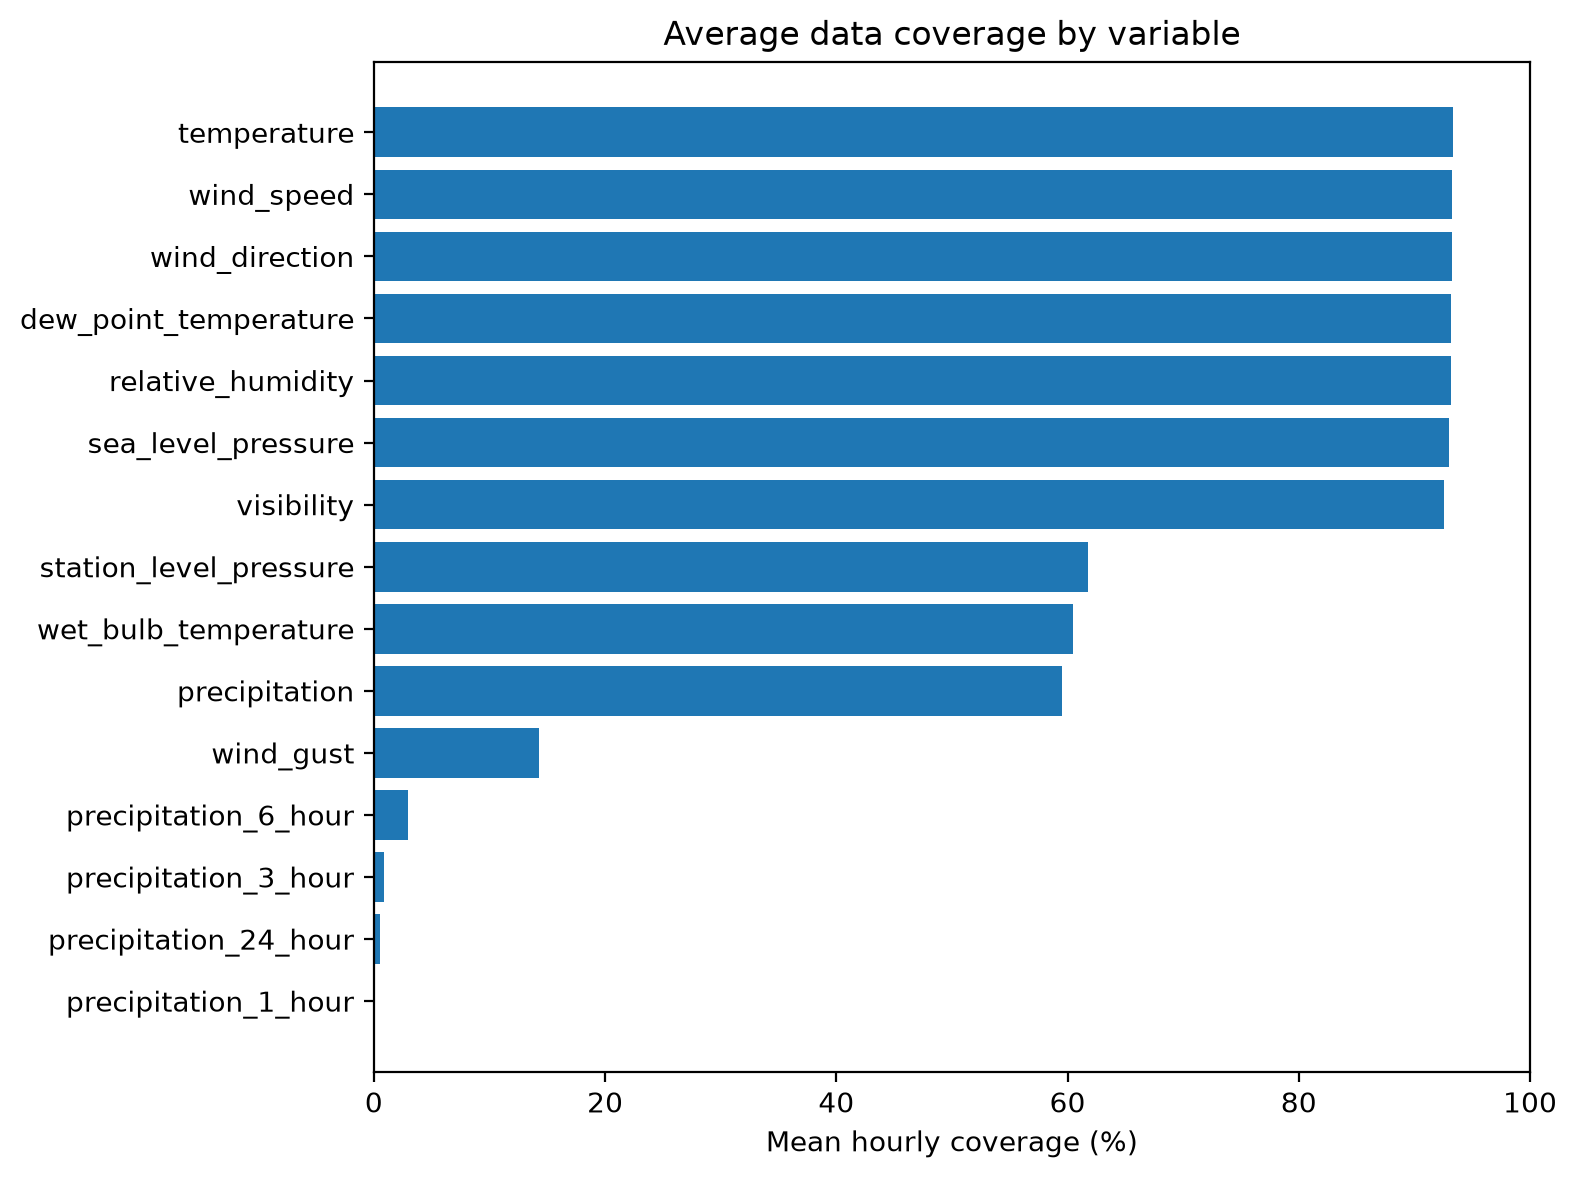
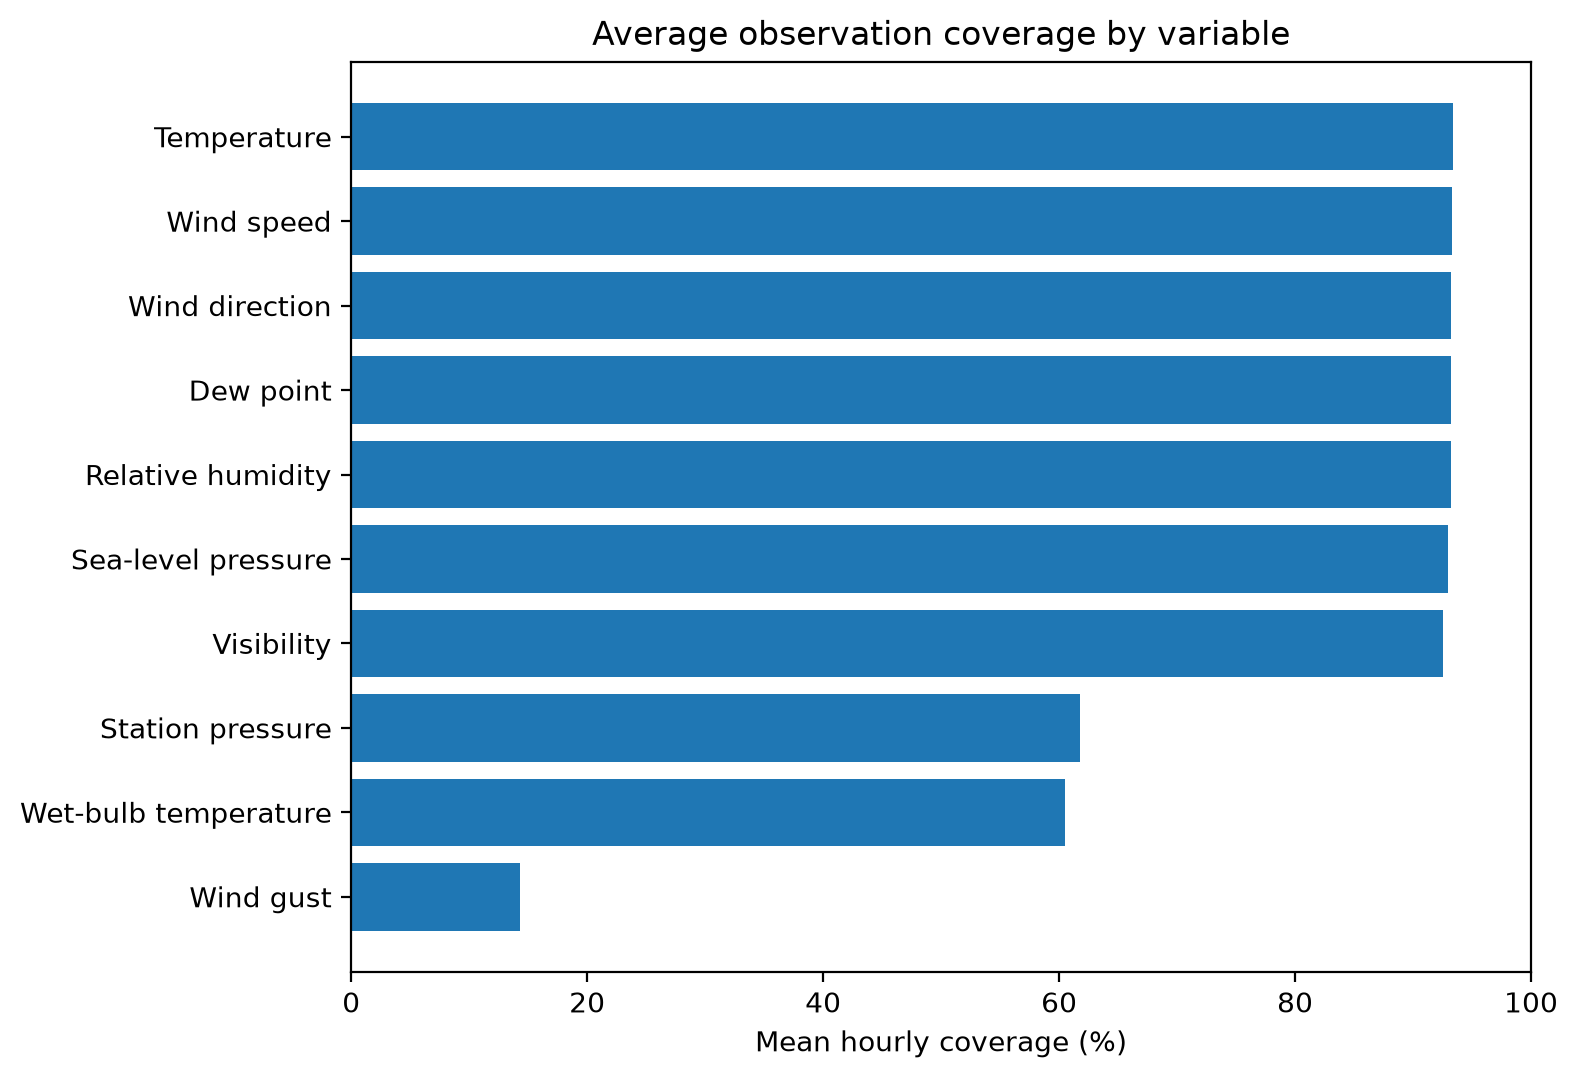
refine weather data visualizations

Changed region(s): [[0.0, 0.0, 0.9632, 0.9796], [0.9632, 0.9184, 0.9943, 0.949]]

diff --git a/src/border_weather/visualizations.py b/src/border_weather/visualizations.py
@@ -7,32 +7,86 @@ import pandas as pd
 FIGURE_DIR = Path("reports/figures")
 FIGURE_DIR.mkdir(parents=True, exist_ok=True)
 
+AUDIT_PATH = Path(
+    "reports/audit/station_variable_year.csv"
+)
+
+HOURLY_PATH = Path(
+    "releases/border-weather-v0.1/hourly.parquet"
+)
+
+STATION_LABELS = {
+    "USW00012959": "McAllen",
+    "USW00012919": "Brownsville",
+    "USI0000KBRO": "Brownsville (parallel source)",
+    "USW00012904": "Harlingen",
+    "USW00012957": "Port Isabel",
+    "USW00003145": "Yuma",
+    "USW00023195": "Yuma (historical source)",
+    "USI0000KLGF": "Laguna AAF",
+    "USI0000KNOZ": "Yuma Aux / Wellton",
+    "USW00003144": "Imperial",
+    "USW00023199": "El Centro",
+}
+
+VARIABLE_LABELS = {
+    "temperature": "Temperature",
+    "dew_point_temperature": "Dew point",
+    "relative_humidity": "Relative humidity",
+    "wind_speed": "Wind speed",
+    "wind_direction": "Wind direction",
+    "wind_gust": "Wind gust",
+    "station_level_pressure": "Station pressure",
+    "sea_level_pressure": "Sea-level pressure",
+    "visibility": "Visibility",
+    "wet_bulb_temperature": "Wet-bulb temperature",
+}
+
 
 def coverage_over_time():
-    audit = pd.read_csv(
-        "reports/audit/station_variable_year.csv"
-    )
+    audit = pd.read_csv(AUDIT_PATH)
 
     df = audit[
         audit["variable"] == "temperature"
     ].copy()
+
+    df["year"] = pd.to_numeric(
+        df["year"],
+        errors="coerce",
+    )
+
+    df = df[
+        df["year"].between(2000, 2026)
+    ]
 
     plt.figure(figsize=(10, 6))
 
     for station_id, group in df.groupby(
         "source_station_id"
     ):
-        group = group.sort_values("year")
+        group = group.sort_values("year").copy()
+
+        # Missing station-years should appear as gaps,
+        # not as artificial zero coverage.
+        group.loc[
+            group["hours_with_observation"] == 0,
+            "hourly_coverage_pct",
+        ] = pd.NA
+
+        label = STATION_LABELS.get(
+            station_id,
+            station_id,
+        )
 
         plt.plot(
             group["year"],
             group["hourly_coverage_pct"],
-            label=station_id,
+            label=label,
         )
 
     plt.xlabel("Year")
     plt.ylabel("Hourly coverage (%)")
-    plt.title("Temperature observation coverage by station")
+    plt.title("Temperature observation coverage")
     plt.ylim(0, 100)
 
     plt.legend(
@@ -60,17 +114,41 @@ def coverage_over_time():
 
 
 def annual_temperature():
-    df = pd.read_parquet(
-        "releases/border-weather-v0.1/"
-        "monthly.parquet"
+    df = pd.read_parquet(HOURLY_PATH)
+
+    df["hour_utc"] = pd.to_datetime(
+        df["hour_utc"],
+        utc=True,
+        errors="coerce",
     )
 
-    df["month_start_local"] = pd.to_datetime(
-        df["month_start_local"]
+    df["year"] = df["hour_utc"].dt.year
+
+    # Use complete years only.
+    df = df[
+        df["year"].between(2000, 2025)
+    ].copy()
+
+    df["temperature_mean"] = pd.to_numeric(
+        df["temperature_mean"],
+        errors="coerce",
     )
 
-    df["year"] = (
-        df["month_start_local"].dt.year
+    df["temperature_n"] = pd.to_numeric(
+        df["temperature_n"],
+        errors="coerce",
+    ).fillna(0)
+
+    df = df[
+        (df["temperature_n"] > 0)
+        & df["temperature_mean"].notna()
+    ].copy()
+
+    # Weight hourly means by the number of
+    # underlying temperature reports in that hour.
+    df["weighted_temperature"] = (
+        df["temperature_mean"]
+        * df["temperature_n"]
     )
 
     annual = (
@@ -80,8 +158,22 @@ def annual_temperature():
                 "year",
             ],
             as_index=False,
-        )["temperature_mean"]
-        .mean()
+        )
+        .agg(
+            weighted_sum=(
+                "weighted_temperature",
+                "sum",
+            ),
+            observation_count=(
+                "temperature_n",
+                "sum",
+            ),
+        )
+    )
+
+    annual["temperature_mean"] = (
+        annual["weighted_sum"]
+        / annual["observation_count"]
     )
 
     plt.figure(figsize=(10, 6))
@@ -91,15 +183,22 @@ def annual_temperature():
     ):
         group = group.sort_values("year")
 
+        label = STATION_LABELS.get(
+            station_id,
+            station_id,
+        )
+
         plt.plot(
             group["year"],
             group["temperature_mean"],
-            label=station_id,
+            label=label,
         )
 
     plt.xlabel("Year")
     plt.ylabel("Mean temperature (°C)")
-    plt.title("Annual mean temperature by station")
+    plt.title(
+        "Annual mean observed temperature"
+    )
 
     plt.legend(
         fontsize=8,
@@ -126,31 +225,43 @@ def annual_temperature():
 
 
 def coverage_by_variable():
-    audit = pd.read_csv(
-        "reports/audit/station_variable_year.csv"
-    )
+    audit = pd.read_csv(AUDIT_PATH)
+
+    df = audit[
+        audit["variable"].isin(
+            VARIABLE_LABELS.keys()
+        )
+    ].copy()
 
     summary = (
-        audit.groupby(
+        df.groupby(
             "variable",
             as_index=False,
         )["hourly_coverage_pct"]
         .mean()
-        .sort_values(
-            "hourly_coverage_pct"
-        )
     )
 
-    plt.figure(figsize=(8, 6))
+    summary["label"] = (
+        summary["variable"]
+        .map(VARIABLE_LABELS)
+    )
+
+    summary = summary.sort_values(
+        "hourly_coverage_pct"
+    )
+
+    plt.figure(figsize=(8, 5.5))
 
     plt.barh(
-        summary["variable"],
+        summary["label"],
         summary["hourly_coverage_pct"],
     )
 
     plt.xlabel("Mean hourly coverage (%)")
     plt.ylabel("")
-    plt.title("Average data coverage by variable")
+    plt.title(
+        "Average observation coverage by variable"
+    )
     plt.xlim(0, 100)
 
     plt.tight_layout()
